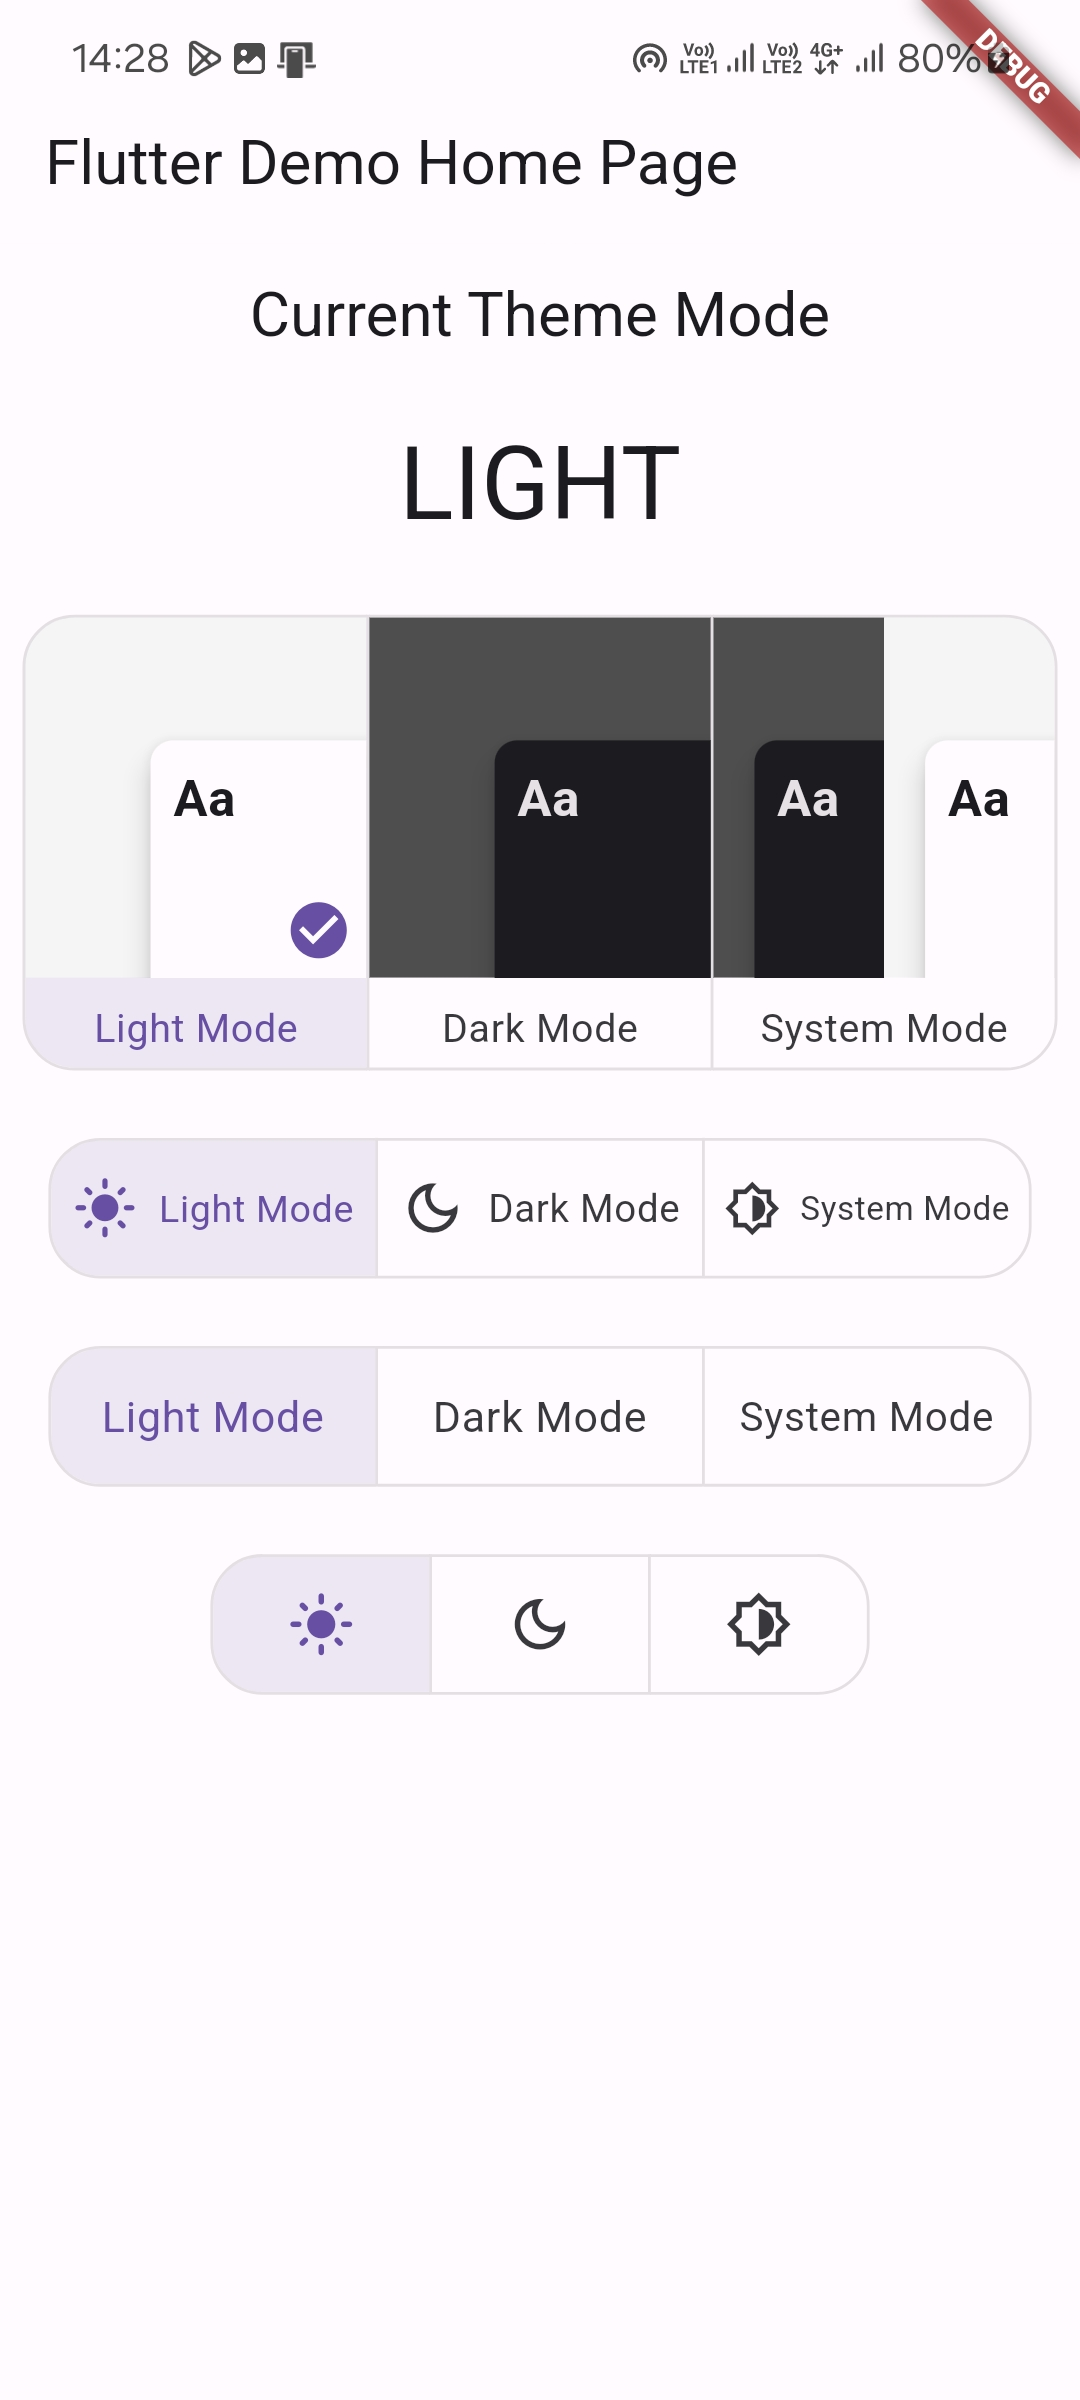
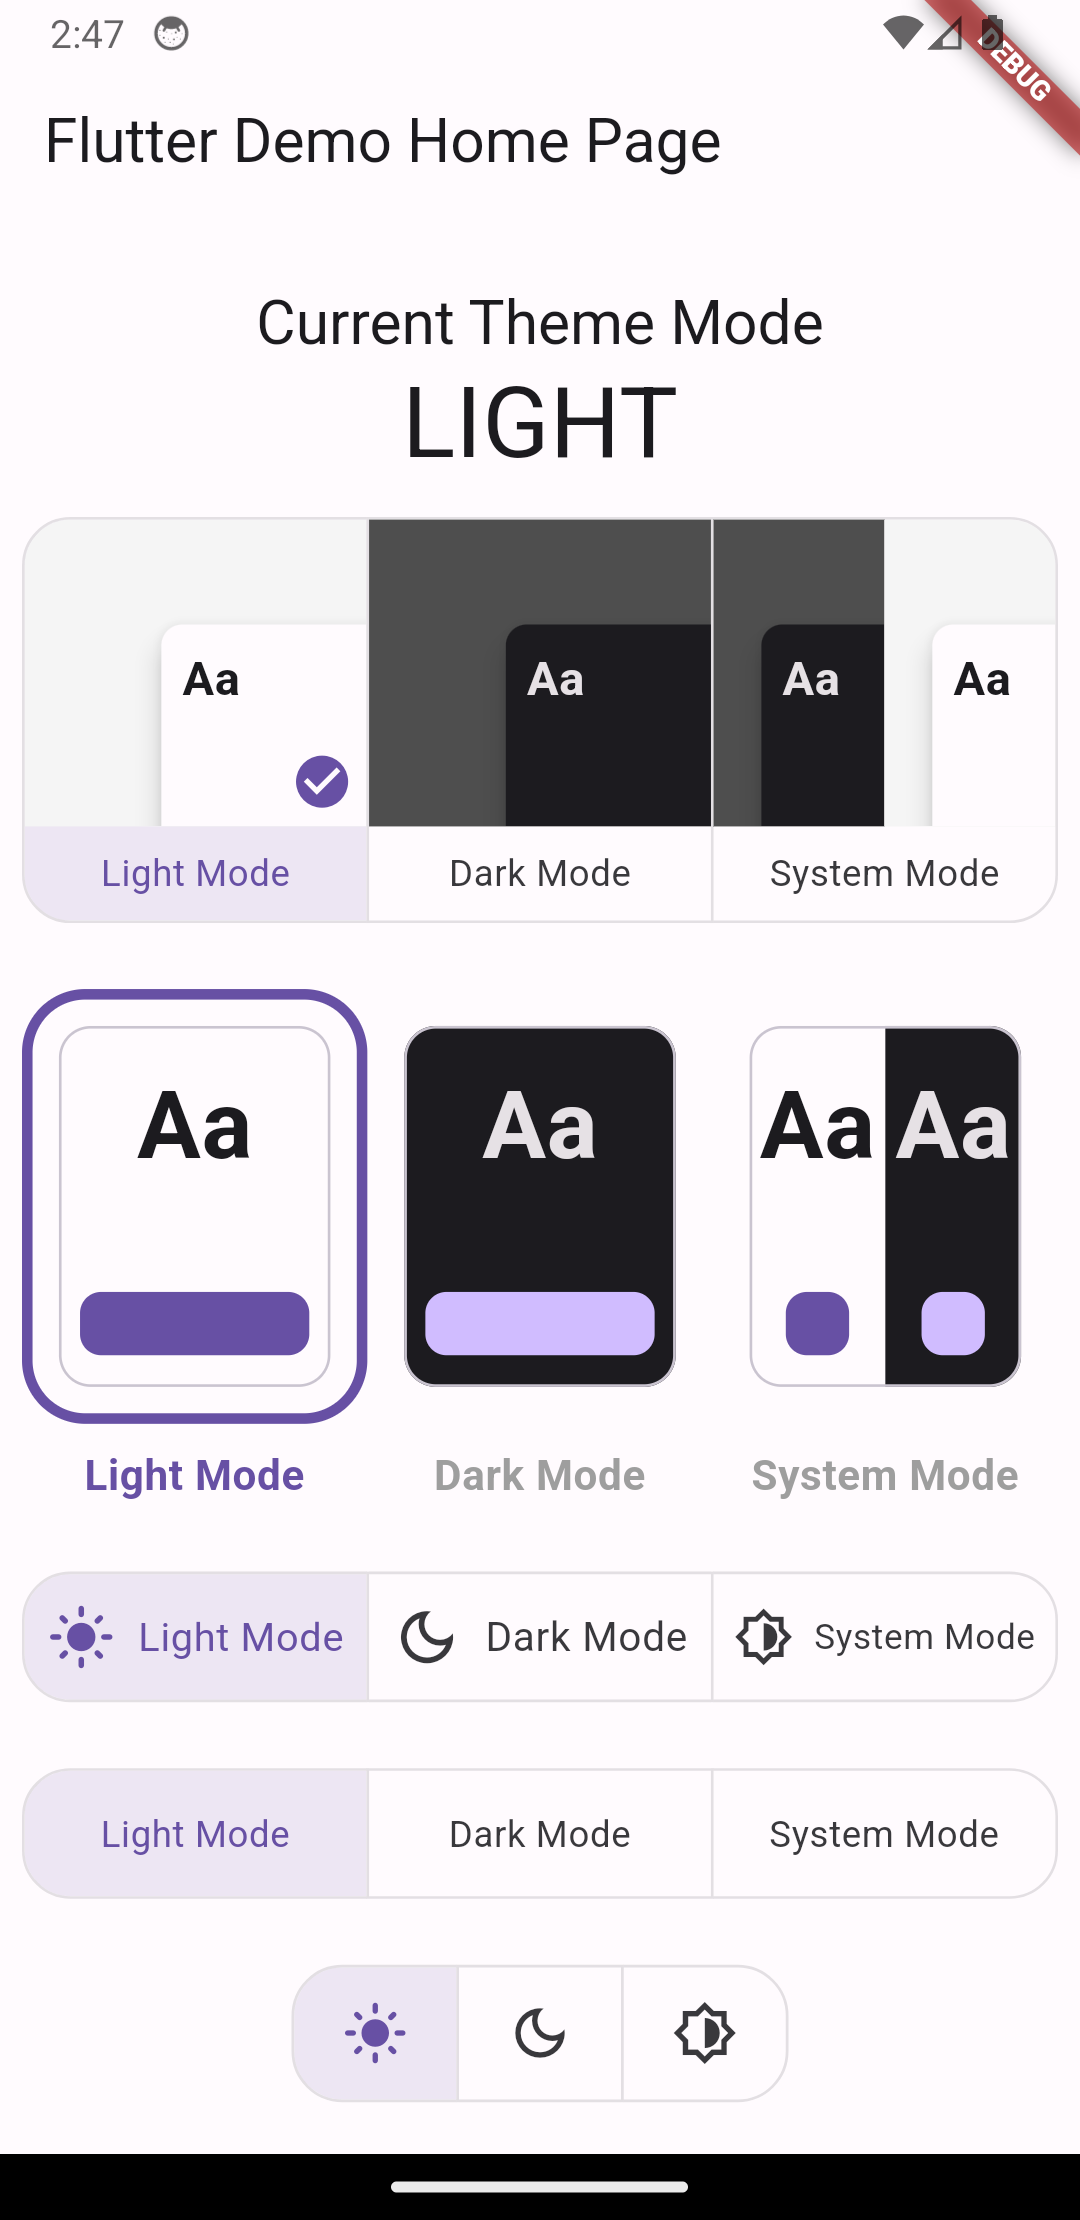
:memo: update README.md and screenshots

diff --git a/README.md b/README.md
@@ -26,7 +26,6 @@ Add this to your packages pubspec.yaml file:
 ```yaml
 dependencies:
   lets_theme: <^last>
-  shared_preferences: <^last>
 ```
 
 ## Getting Started
@@ -45,7 +44,7 @@ class MyApp extends StatelessWidget {
     return LetsTheme(
       light: ThemeData.light(useMaterial3: true),
       dark: ThemeData.dark(useMaterial3: true), 
-      initialMode: ThemeMode.system, // bad: I'll in more detail below, but you need to know that this would fine if we don't save any preferences.
+      initialMode: ThemeMode.light, // bad: I'll explain why in more detail below, but you need to know that this would be fine if we don't save any preferences.
       builder: (ThemeData light, ThemeData dark) => MaterialApp(
         title: "Let's Theme Demo",
         theme: light,
@@ -67,19 +66,23 @@ The Below example shows how it can be done.
 ```dart
 void main() async {
   WidgetsFlutterBinding.ensureInitialized();
-  final savedThemeMode = await LetsTheme.getThemeMode();
+  final ThemeMode savedThemeMode = await LetsTheme.getThemeMode();
   runApp(MyApp(savedThemeMode: savedThemeMode));
 }
 ```
 
 ```dart
 class MyApp extends StatelessWidget {
+  const MyApp({this.savedThemeMode, super.key});
+  
+  final ThemeMode savedThemeMode;
+  
   @override
   Widget build(BuildContext context) {
     return LetsTheme(
       light: ThemeData.light(useMaterial3: true),
       dark: ThemeData.dark(useMaterial3: true),
-      initial: savedThemeMode ?? ThemeMode.system, // good
+      initial: savedThemeMode ?? ThemeMode.light, // good
       builder: (ThemeData light, ThemeData dark) => MaterialApp(
         title: "Let's Theme Demo",
         theme: light,
@@ -131,6 +134,8 @@ Widget build(BuildContext context) {
         ),
         const SizedBox(height: 24),
         const LetsThemeToggle(),
+        const SizedBox(height: 24),
+        const LetsThemeToggle.card(), // New since v0.0.2
         const SizedBox(height: 24),
         const LetsThemeToggle.compact(),
         const SizedBox(height: 24),
@@ -192,8 +197,8 @@ const LetsThemeToggle.compact(
 
 ## Changing Theme Mode
 
-Now that you have initialized your app as mentioned above. It's very easy and straight forward to
-change your theme modes: **light to dark, dark to light or to system default**.
+Now that you have initialized your app as mentioned above.
+It's very easy and straightforward to change your theme modes: **light to dark, dark to light or to system default**.
 
 ```dart
 // sets theme mode to dark
@@ -249,7 +254,8 @@ You can fall back to those default themes in a straightforward way.
 LetsTheme.of(context).reset();
 ```
 
-This will reset your `ThemeData` as well as `ThemeMode` to the **initial** values provided at the time of initialization.
+This will reset your `ThemeData` as well as `ThemeMode` to the **initialMode** values
+provided at the time of initialization.
 
 ## Listen to the theme mode changes
 
@@ -262,7 +268,7 @@ LetsTheme.of(context).themeModeNotifier.addListener(() {
 });
 ```
 
-Or you can utilize it to react on UI with
+Or you can use it to react on UI with
 
 ```dart
 ValueListenableBuilder(
